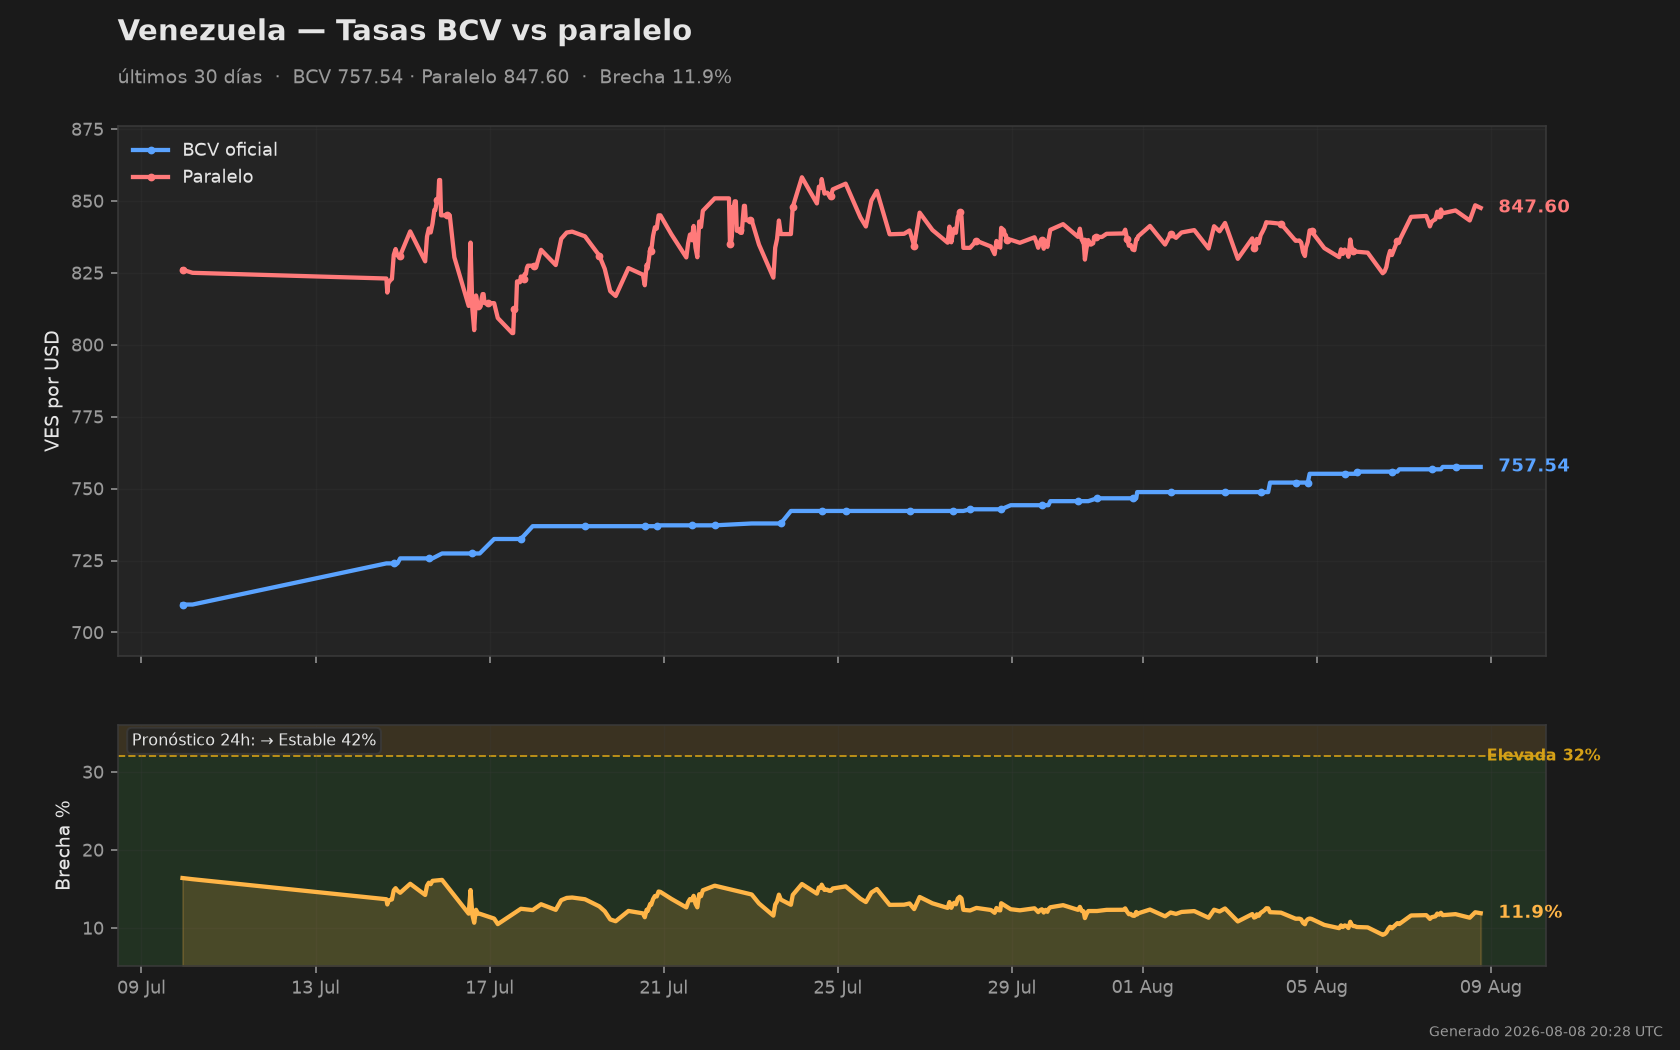
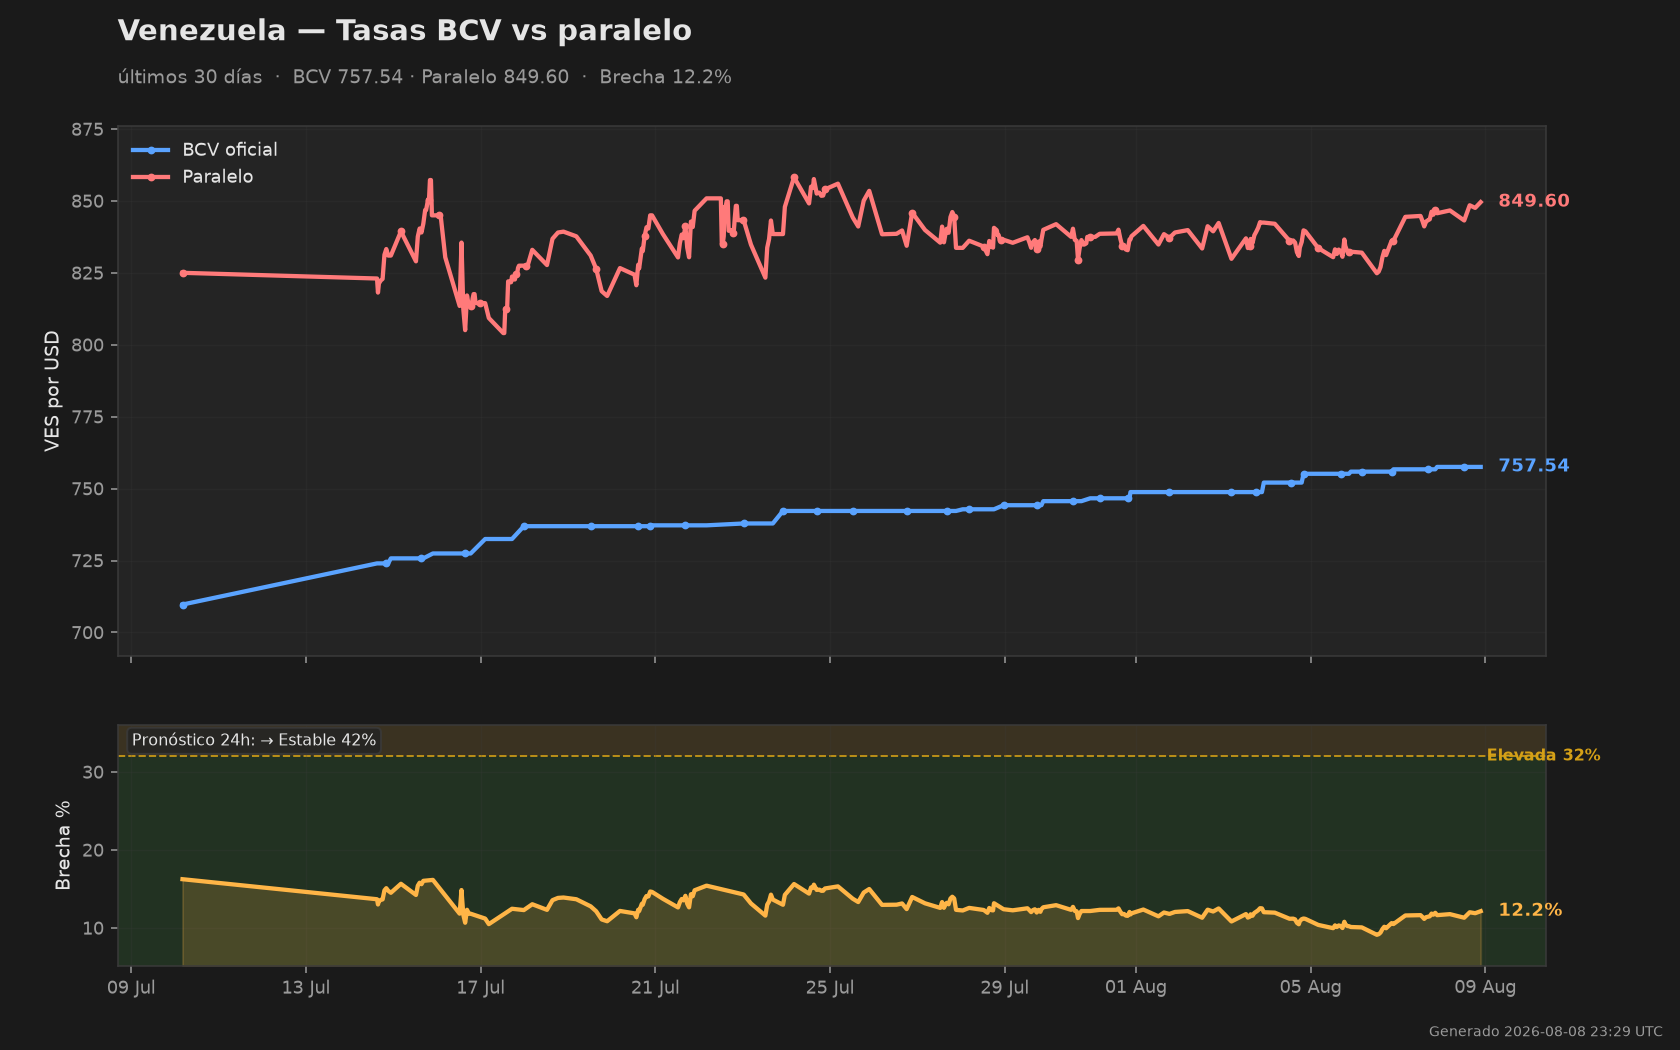
Dashboard update 2026-08-08 23:29 UTC

diff --git a/README.md b/README.md
@@ -11,11 +11,11 @@
 | Metric · Métrica | Value · Valor |
 |---|---|
 | BCV Oficial | **757.54** VES/USD |
-| Paralelo | **847.60** VES/USD |
-| Brecha · Spread | **11.9%** |
-| Binance P2P USDT/VES | **862.05** VES/USDT (+1.7% vs paralelo) |
+| Paralelo | **849.60** VES/USD |
+| Brecha · Spread | **12.2%** |
+| Binance P2P USDT/VES | **862.05** VES/USDT (+1.5% vs paralelo) |
 | **Pronóstico 24h · 24h Forecast** | **→ Estable · Stable (70%)** |
-| Actualizado · Updated | 2026-08-08 18:27 UTC |
+| Actualizado · Updated | 2026-08-08 21:29 UTC |
 
 ![Venezuela BCV vs parallel rate — last 30 days](data/chart.png)
 
